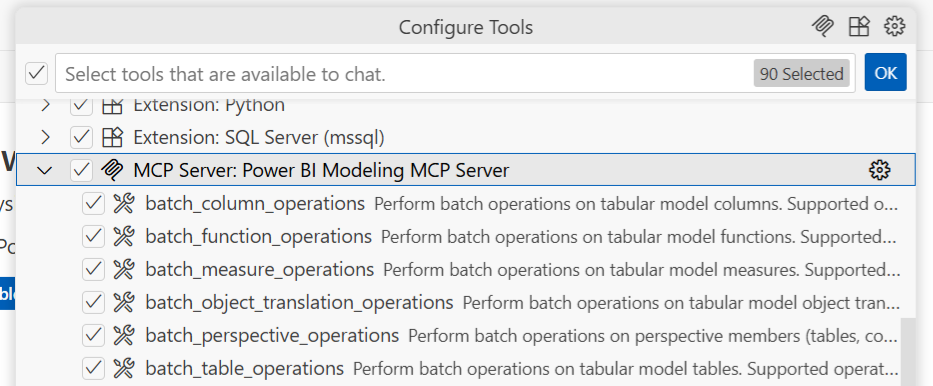
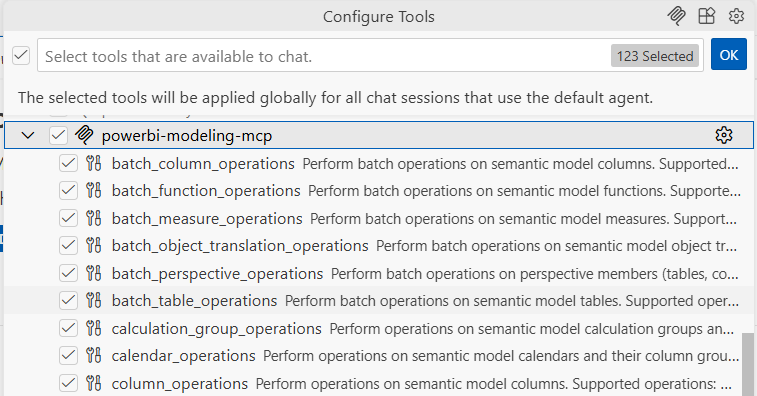
Doc updates before launch (#6)
* Update README.md with corrected extension installation link and refined model operations description

* Update end-to-end demo link in README.md for improved accessibility

* Update README.md and TROUBLESHOOTING.md for consistency and clarity; adjust image references

Changed region(s): [[0.0, 0.0, 1.0, 1.0], [0.4254, 0.0311, 0.5773, 0.1244], [0.0, 0.715, 0.0304, 0.8083]]

diff --git a/README.md b/README.md
@@ -18,7 +18,7 @@ The **Power BI Modeling MCP Server** brings Power BI semantic modeling capabilit
 
 - **🔍 Query and Validate DAX** - AI assistants can execute and validate DAX queries against your model, helping you test measures, troubleshoot calculations, and explore your data
 
-📹 Watch the video for an [end-to-end demo](https://youtu.be/n9JaxHDQIqo?si=U-lUeuJRN-Q5gVM2).
+📹 Watch the video for an [end-to-end demo](https://aka.ms/power-modeling-mcp-demo).
 
 > [!WARNING]  
 > - Use caution when connecting an AI Agent to a semantic model. The underlying LLM may produce unexpected or inaccurate results, which could lead to unintended changes. **Always create a backup of your model before performing any operations.** 
@@ -33,11 +33,11 @@ The easiest way to install this MCP Server is by using the **Visual Studio Code 
 
 1. Install [Visual Studio Code](https://code.visualstudio.com/download).
 2. Install the [GitHub Copilot](https://marketplace.visualstudio.com/items?itemName=GitHub.copilot) and [GitHub Copilot Chat](https://marketplace.visualstudio.com/items?itemName=GitHub.copilot-chat) extensions.
-3. Install the [Power BI Modeling MCP Visual Studio Code extension](https://marketplace.visualstudio.com).
+3. Install the [Power BI Modeling MCP Visual Studio Code extension](https://aka.ms/powerbi-modeling-mcp-vscode).
    
 	![vs code install](docs/img/vscode-extension-install.png)
 
-4. Open [GitHub Copilot chat](https://code.visualstudio.com/docs/copilot/chat/copilot-chat) and confirm the **Power BI Modeling MCP server** is available and selected.
+4. Open [GitHub Copilot chat](https://code.visualstudio.com/docs/copilot/chat/copilot-chat) and confirm the **powerbi-modeling-mcp** is available and selected.
    
 	![vscode-mcp-tools](docs/img/vscode-mcp-tools.png)
 
@@ -126,7 +126,7 @@ This MCP Server supports the [Elicitation MCP protocol](https://modelcontextprot
 | **connection_operations**               | Connect to Power BI Desktop or Fabric workspaces                                                               |
 | **database_operations**                 | Manage semantic models - connect, create, update, list databases, import/export TMDL folders, deploy to Fabric |
 | **transaction_operations**              | Control database transactions (begin, commit, rollback, get status)                                            |
-| **model_operations**                    | Work with the overall model (get info, create, update, refresh, get stats, rename)                             |
+| **model_operations**                    | Work with the overall model (get, create, update, refresh, get stats, rename)                                  |
 | **table_operations**                    | Manage tables (create, update, delete, get, list, refresh, rename)                                             |
 | **column_operations**                   | Manage individual table columns (create, update, delete, get, list, rename)                                    |
 | **measure_operations**                  | Manage individual DAX measures (create, update, delete, get, list, rename, move between tables)                |
@@ -167,7 +167,7 @@ This MCP server includes built-in prompts to help you get started. In **Visual S
 | **AnalyzeDAXQuery**         | Analyzes DAX query performance by running it with a cleared cache and reviewing execution metrics for potential issues.                                                                         |
 | **ConnectToPowerBIDesktop** | Searches for the Power BI Desktop Analysis Services instance that matches the file name and connects to it.                                                                                    |
 | **ConnectToFabric**         | Connects to a semantic model in a Fabric Workspace.                                                                                                                                            |
-| **ConnectToPowerBIProject** | Loads the TMDL definition from the semantic model in the Power BI Project files. Attaches the `powerbi_project_instructions` resource to provide the LLM with Power BI Project (PBIP) context. |
+| **ConnectToPBIP** | Loads the TMDL definition from the semantic model in the Power BI Project files. Attaches the `powerbi_project_instructions` resource to provide the LLM with Power BI Project (PBIP) context. |
 
 > [!NOTE]
 > Some prompts also attach resources that provide important context for the LLM.
@@ -216,7 +216,7 @@ Open **Visual Studio Code** [user settings](https://code.visualstudio.com/docs/c
 
 ## Considerations and limitations
 
-- This MCP server is only supported on the Windows platform.
+- Connecting to a Semantic Model in a Fabric workspace may not work in your tenant due to the ongoing rollout of the client ID used for authentication. 
 - This MCP server follows the same rules and behaviors as modeling operations performed by External Tools. Refer to the [documentation](https://learn.microsoft.com/power-bi/transform-model/desktop-external-tools#data-modeling-operations) for more information.
 
 ## Security

diff --git a/TROUBLESHOOTING.md b/TROUBLESHOOTING.md
@@ -8,10 +8,10 @@ Check the [MCP server output log](https://code.visualstudio.com/docs/copilot/cus
 
 1. Open Command Palette (Ctrl+Shift+P)
 2. Search for **MCP: List Servers**
-3. Select **Power BI Modeling MCP Server**
+3. Select **powerbi-modeling-mcp**
 4. Select **Show Output**
 5. Examine the **Output** window in VS Code
-6. Select **MCP: Power BI Modeling MCP Server** from the dropdown menu
+6. Select **MCP: powerbi-modeling-mcp** from the dropdown menu
 
 ![troubleshooting-vscode-output](docs/img/troubleshooting-vscode-output.png)
 
@@ -31,12 +31,9 @@ Capturing the MCP logs with **dotnet-trace**:
 
 1. Open Command Palette (Ctrl+Shift+P)
 2. Search for **MCP: List Servers**
-3. Select **Power BI Modeling MCP Server**
+3. Select **powerbi-modeling-mcp** Server
 4. Select **Restart Server**
 5. Examine the **Output** window in VS Code
-6. Select **MCP: Power BI Modeling MCP Server** from the dropdown menu
-
-![troubleshooting-vscode-output](docs/img/troubleshooting-vscode-output.png)
 
 ## Locating MCP Server Binaries
 
@@ -49,3 +46,10 @@ This can be useful for:
 - Checking platform-specific binaries
 - Finding the MCP binary to use from other MCP client tools
 - Troubleshooting and replacing binaries in development builds
+
+## Frequently Asked Questions
+
+**Question:** I’m unable to install the new version of the MCP server in Visual Studio Code. The installation hangs and never completes.
+
+**Answer:** [Restart the MCP Server](#restart-mcp-server) and try again. If that doesn’t resolve the issue, restart Visual Studio Code.
+
